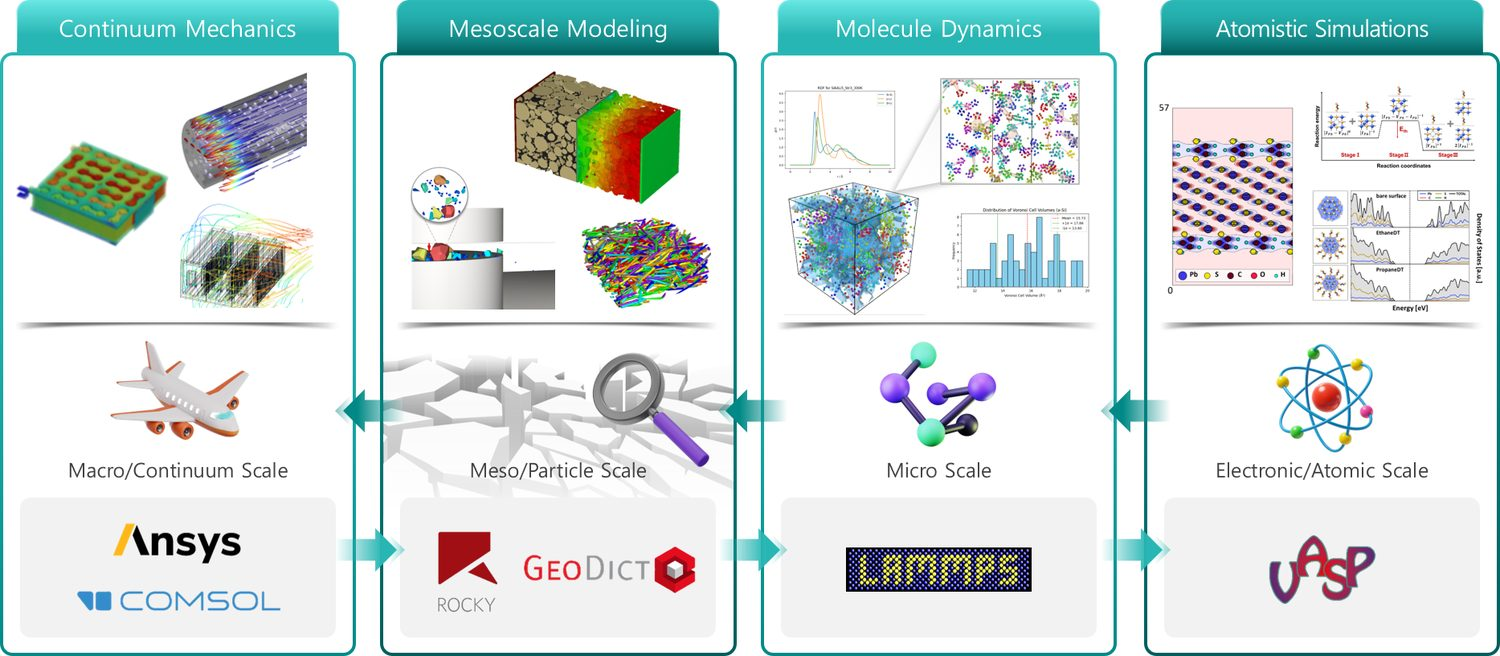
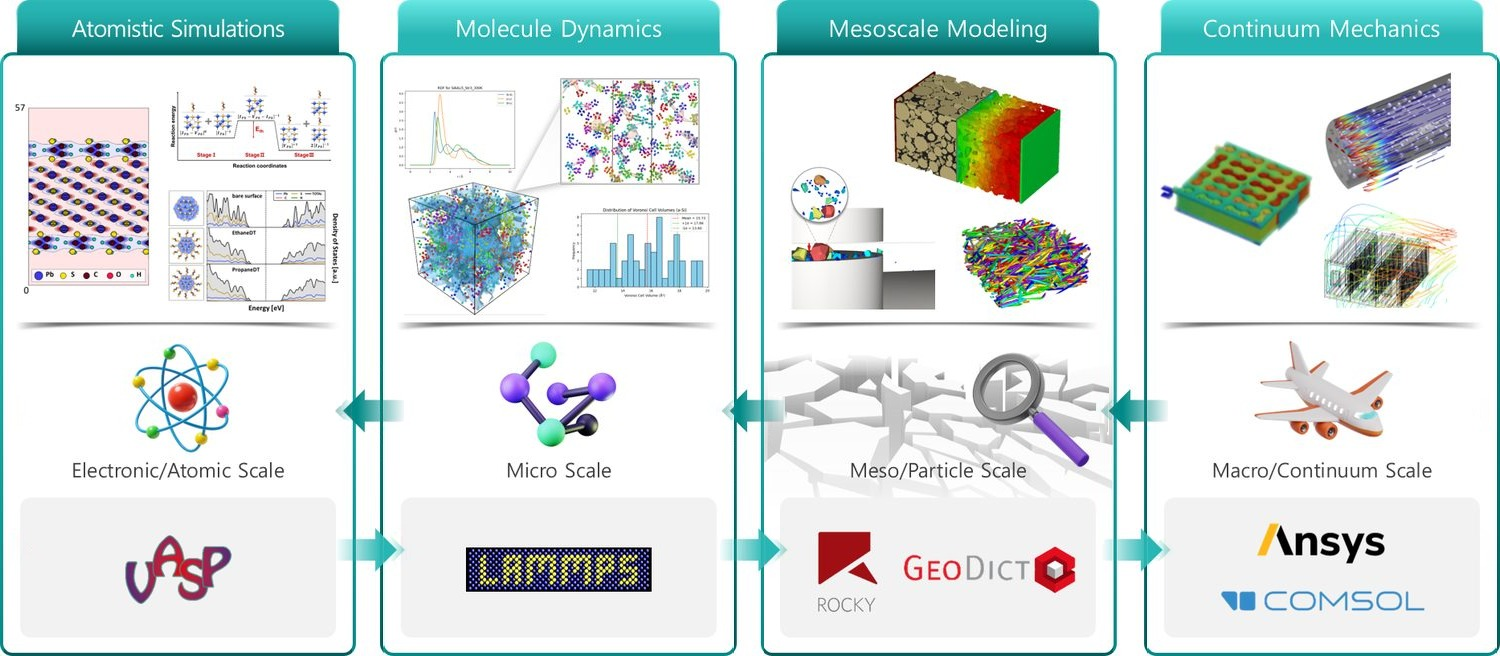
Research scope 그림 패널 순서 반전 (Atomistic → MD → Mesoscale → Continuum)
Claude-Session: https://claude.ai/code/session_01MRPiQirw4n63LMQu1S1Vxf

diff --git a/index.html b/index.html
@@ -394,7 +394,7 @@
   © 2026 MatSOLVE, Korea Institute of Ceramic Engineering &amp; Technology<br>
 </footer>
 
-<script id="imgdata" type="application/json">{"logo": "assets/img/logo.png", "concept": "assets/img/concept.jpg", "scope": "assets/img/scope.jpg", "pillars": "assets/img/pillars.jpg", "qr": "assets/img/qr.jpg", "r1": "assets/img/r1.jpg", "r2": "assets/img/r2.jpg", "r3": "assets/img/r3.jpg", "r4": "assets/img/r4.jpg", "r5": "assets/img/r5.jpg", "pi": "assets/img/pi.jpg", "m_bincy": "assets/img/m_bincy.jpg", "m_ganji": "assets/img/m_ganji.jpg", "m_prabha": "assets/img/m_prabha.jpg", "m_ksw": "assets/img/m_ksw.jpg", "m_kjb": "assets/img/m_kjb.jpg", "m_khn": "assets/img/m_khn.jpg", "m_cde": "assets/img/m_cde.jpg", "m_smt": "assets/img/m_smt.jpg", "m_shj": "assets/img/m_shj.jpg", "m_ldg": "assets/img/m_ldg.jpg", "m_lsh": "assets/img/m_lsh.jpg", "m_jsw": "assets/img/m_jsw.jpg", "sw_ansys": "assets/img/sw_ansys.png", "sw_fluent": "assets/img/sw_fluent.png", "sw_comsol": "assets/img/sw_comsol.png", "sw_digimat": "assets/img/sw_digimat.png", "sw_geodict": "assets/img/sw_geodict.png", "sw_hepigans": "assets/img/sw_hepigans.png", "sw_msstudio": "assets/img/sw_msstudio.png", "sw_piano": "assets/img/sw_piano.png", "sw_vasp": "assets/img/sw_vasp.png", "n_grad": "assets/img/n_grad.jpg", "n_cover": "assets/img/n_cover.jpg", "n_plat": "assets/img/n_plat.jpg?v=20260905", "n_award": "assets/img/n_award.jpg", "n_geo": "assets/img/n_geo.jpg", "n_qd": "assets/img/n_qd.jpg", "n_marine": "assets/img/n_marine.jpg", "n_hydro": "assets/img/pub/20.jpg", "n_amds": "assets/img/n_amds.jpg", "n_mico": "assets/img/n_mico.jpg", "n_halide": "assets/img/n_halide.jpg?v=20260905", "n_tribo": "assets/img/pub/13.jpg", "m_kgw": "assets/img/m_kgw.jpg", "m_gf": "assets/img/m_gf.jpg", "m_uk": "assets/img/m_uk.jpg"}</script>
+<script id="imgdata" type="application/json">{"logo": "assets/img/logo.png", "concept": "assets/img/concept.jpg", "scope": "assets/img/scope.jpg?v=20261005", "pillars": "assets/img/pillars.jpg", "qr": "assets/img/qr.jpg", "r1": "assets/img/r1.jpg", "r2": "assets/img/r2.jpg", "r3": "assets/img/r3.jpg", "r4": "assets/img/r4.jpg", "r5": "assets/img/r5.jpg", "pi": "assets/img/pi.jpg", "m_bincy": "assets/img/m_bincy.jpg", "m_ganji": "assets/img/m_ganji.jpg", "m_prabha": "assets/img/m_prabha.jpg", "m_ksw": "assets/img/m_ksw.jpg", "m_kjb": "assets/img/m_kjb.jpg", "m_khn": "assets/img/m_khn.jpg", "m_cde": "assets/img/m_cde.jpg", "m_smt": "assets/img/m_smt.jpg", "m_shj": "assets/img/m_shj.jpg", "m_ldg": "assets/img/m_ldg.jpg", "m_lsh": "assets/img/m_lsh.jpg", "m_jsw": "assets/img/m_jsw.jpg", "sw_ansys": "assets/img/sw_ansys.png", "sw_fluent": "assets/img/sw_fluent.png", "sw_comsol": "assets/img/sw_comsol.png", "sw_digimat": "assets/img/sw_digimat.png", "sw_geodict": "assets/img/sw_geodict.png", "sw_hepigans": "assets/img/sw_hepigans.png", "sw_msstudio": "assets/img/sw_msstudio.png", "sw_piano": "assets/img/sw_piano.png", "sw_vasp": "assets/img/sw_vasp.png", "n_grad": "assets/img/n_grad.jpg", "n_cover": "assets/img/n_cover.jpg", "n_plat": "assets/img/n_plat.jpg?v=20260905", "n_award": "assets/img/n_award.jpg", "n_geo": "assets/img/n_geo.jpg", "n_qd": "assets/img/n_qd.jpg", "n_marine": "assets/img/n_marine.jpg", "n_hydro": "assets/img/pub/20.jpg", "n_amds": "assets/img/n_amds.jpg", "n_mico": "assets/img/n_mico.jpg", "n_halide": "assets/img/n_halide.jpg?v=20260905", "n_tribo": "assets/img/pub/13.jpg", "m_kgw": "assets/img/m_kgw.jpg", "m_gf": "assets/img/m_gf.jpg", "m_uk": "assets/img/m_uk.jpg"}</script>
 <script id="galdata" type="application/json">[{"id": "e2609b", "date": "2026.09.30–10.02", "title": "Korean Ceramic Society", "note": "추계학술대회", "cover": "assets/img/gallery/e2609b-cover.jpg", "shots": ["assets/img/gallery/e2609b-01.jpg", "assets/img/gallery/e2609b-02.jpg"]}, {"id": "e2609", "date": "2026.09.08", "title": "Welcome, Daeun!", "note": "최다은 연구원 환영회", "cover": "assets/img/gallery/e2609-cover.jpg", "shots": ["assets/img/gallery/e2609-01.jpg"]}, {"id": "e2606", "date": "2026.06.21–24", "title": "CIMTEC 2026 · 10th Forum on New Materials", "note": "Perugia, Italy", "cover": "assets/img/gallery/e2606-cover.jpg", "shots": ["assets/img/gallery/e2606-01.jpg", "assets/img/gallery/e2606-02.jpg", "assets/img/gallery/e2606-04.jpg", "assets/img/gallery/e2606-03.jpg"]}, {"id": "e2605b", "date": "2026.05.15", "title": "Teachers' Day", "note": "스승의 날", "cover": "assets/img/gallery/e2605b-cover.jpg", "shots": ["assets/img/gallery/e2605b-02.jpg"]}, {"id": "e2605a", "date": "2026.05.08", "title": "Homecoming", "note": "졸업생 방문", "cover": "assets/img/gallery/e2605a-cover.jpg", "shots": ["assets/img/gallery/e2605a-14.jpg"]}, {"id": "e2604", "date": "2026.04.08–10", "title": "Korean Ceramic Society", "note": "춘계학술대회", "cover": "assets/img/gallery/e2604-cover.jpg", "shots": ["assets/img/gallery/e2604-08.jpg", "assets/img/gallery/e2604-01.jpg", "assets/img/gallery/e2604-06.jpg"]}, {"id": "e2601", "date": "2026.01.09", "title": "Birthday", "note": "", "cover": "assets/img/gallery/e2601-cover.jpg", "shots": ["assets/img/gallery/e2601-01.jpg"]}, {"id": "e2511", "date": "2025.11.19–22", "title": "39th Korea–Japan Seminar on Ceramics", "note": "Oriental Hotel, Jeju", "cover": "assets/img/gallery/e2511-cover.jpg", "shots": ["assets/img/gallery/e2511-01.jpg", "assets/img/gallery/e2511-02.jpg", "assets/img/gallery/e2511-04.jpg"]}, {"id": "e2506", "date": "2025.06.02", "title": "Congrats, Donggeon!", "note": "이동건 취업 축하 파티", "cover": "assets/img/gallery/e2506-cover.jpg", "shots": ["assets/img/gallery/e2506-01.jpg"]}, {"id": "e2505", "date": "2025.05.15", "title": "Teachers' Day", "note": "스승의 날", "cover": "assets/img/gallery/e2505-cover.jpg", "shots": ["assets/img/gallery/e2505-03.jpg", "assets/img/gallery/e2505-05.jpg"]}, {"id": "e2503", "date": "2025.03.13", "title": "Group meeting", "note": "", "cover": "assets/img/gallery/e2503-cover.jpg", "shots": ["assets/img/gallery/e2503-01.jpg"]}, {"id": "e2502b", "date": "2025.02.27", "title": "Welcome Dr. Karan", "note": "환영회", "cover": "assets/img/gallery/e2502b-cover.jpg", "shots": ["assets/img/gallery/e2502b-01.jpg", "assets/img/gallery/e2502b-02.jpg"]}, {"id": "e2502a", "date": "2025.02.05–07", "title": "Nature Conference: Materials for AI", "note": "KAIST", "cover": "assets/img/gallery/e2502a-cover.jpg", "shots": ["assets/img/gallery/e2502a-01.jpg"]}, {"id": "e2501", "date": "2025.01.10", "title": "Birthday", "note": "", "cover": "assets/img/gallery/e2501-cover.jpg", "shots": ["assets/img/gallery/e2501-01.jpg"]}, {"id": "e2410", "date": "2024.10.16–18", "title": "Korean Ceramic Society", "note": "추계학술대회", "cover": "assets/img/gallery/e2410-cover.jpg", "shots": ["assets/img/gallery/e2410-04.jpg", "assets/img/gallery/e2410-01.jpg", "assets/img/gallery/e2410-02.jpg"]}, {"id": "e2409", "date": "2024.09.22–27", "title": "Multiscale Materials Modeling (MMM11)", "note": "", "cover": "assets/img/gallery/e2409-cover.jpg", "shots": ["assets/img/gallery/e2409-01.jpg", "assets/img/gallery/e2409-02.jpg", "assets/img/gallery/e2409-09.jpg", "assets/img/gallery/e2409-03.jpg", "assets/img/gallery/e2409-04.jpg", "assets/img/gallery/e2409-05.jpg", "assets/img/gallery/e2409-06.jpg"]}, {"id": "e2403", "date": "2024.03.15–16", "title": "Membership Training", "note": "Geoje", "cover": "assets/img/gallery/e2403-cover.jpg", "shots": ["assets/img/gallery/emt-01.jpg"]}, {"id": "e2305", "date": "2023.05.19–20", "title": "Membership Training", "note": "Changwon", "cover": "assets/img/gallery/e2305-cover.jpg", "shots": ["assets/img/gallery/emt-06.jpg", "assets/img/gallery/emt-02.jpg"]}]</script>
 <script id="pubdata" type="application/json">[{"id": 61, "date": "2026-08-25", "year": 2026, "title": "Effect of fumed silica content on the microstructural evolution and mechanical properties of metakaolin-based basalt fiber-reinforced geopolymer matrix composites", "venue": "Advanced Composite Materials", "jif": null, "q": null, "cites": 0, "role": "co-corresponding", "pos": [5, 5], "doi": "https://doi.org/10.1080/09243046.2026.2721819", "authors": [{"n": "Sanghun Lee", "lab": true, "m": "†"}, {"n": "Shinwoo Kang", "lab": true, "m": "†"}, {"n": "Hyung Mi Lim", "lab": false, "m": ""}, {"n": "Seog-Young Yoon", "lab": false, "m": "*"}, {"n": "Hyunseok Ko", "lab": true, "m": "*"}], "fig": 1}, {"id": 60, "date": "2026-07-13", "year": 2026, "title": "Composition and Processing Descriptors Govern Electroceramic Property Prediction: A Multi-Modal Interpretable Framework for BaTiO3-Based Ceramics", "venue": "Journal of Materiomics", "jif": 10.6, "q": "Q1", "cites": 0, "role": "co-corresponding", "pos": [6, 7], "doi": "https://doi.org/10.1016/j.jmat.2026.101282", "authors": [{"n": "Saman khalid", "lab": false, "m": "†"}, {"n": "Muhammad Faseeh", "lab": false, "m": "†"}, {"n": "Murad Ali Khan", "lab": false, "m": ""}, {"n": "Hyejeong Song", "lab": true, "m": ""}, {"n": "Syed Shehryar Ali Naqvi", "lab": false, "m": ""}, {"n": "Hyunseok Ko", "lab": true, "m": "*"}, {"n": "Do-Hyeun Kim", "lab": false, "m": "*"}]}, {"id": 59, "date": "2026-06-16", "year": 2026, "title": "Multi-model machine learning framework for predicting material properties of BaTiO3-based ferroelectric ceramics", "venue": "Materials & Design", "jif": 8.2, "q": "Q1", "cites": 0, "role": "co-corresponding", "pos": [6, 7], "doi": "https://doi.org/10.1016/j.matdes.2026.116418", "authors": [{"n": "Saman Khalid", "lab": false, "m": "†"}, {"n": "Muhammad Faseeh", "lab": false, "m": ""}, {"n": "Hyejeong Song", "lab": true, "m": ""}, {"n": "Murad Ali Khan", "lab": false, "m": ""}, {"n": "Syed Shehryar Ali Naqvi", "lab": false, "m": ""}, {"n": "Hyunseok Ko", "lab": true, "m": "*"}, {"n": "Do-Hyeon Kim", "lab": false, "m": "*"}], "fig": 1}, {"id": 58, "date": "2026-06-03", "year": 2026, "title": "Reinforced surface reactivity via incorporation of metal catalyst onto perovskite oxide for CO2 reduction", "venue": "Materials Today Energy", "jif": 8.1, "q": "Q1", "cites": 0, "role": "co-corresponding", "pos": [9, 10], "doi": "https://doi.org/10.1016/j.mtener.2026.102327", "authors": [{"n": "Sang Won Lee", "lab": false, "m": "†"}, {"n": "Sampath Prabhakaran", "lab": true, "m": "†"}, {"n": "Tae Heon Nam", "lab": false, "m": ""}, {"n": "Geunwoo Kim", "lab": true, "m": ""}, {"n": "Jae Hoon Lim", "lab": false, "m": ""}, {"n": "Hyejeong Song", "lab": true, "m": ""}, {"n": "Sungtae Park", "lab": false, "m": ""}, {"n": "Jong Hyeok Park", "lab": false, "m": "*"}, {"n": "Hyunseok Ko", "lab": true, "m": "*"}, {"n": "Tae Ho Shin", "lab": false, "m": "*"}], "fig": 1}, {"id": 57, "date": "2026-06-01", "year": 2026, "title": "High Polarity Doping of CoFe Layered Hydroxides: Bifunctional and Corrosion-Resistant Anion Exchange Membrane Seawater Electrolyzers", "venue": "Nano-Micro Letters", "jif": 38.5, "q": "Q1", "cites": 2, "role": "co-author", "pos": [6, 11], "doi": "https://doi.org/10.1007/s40820-026-02230-8", "authors": [{"n": "Anandhan Ayyappan Saj", "lab": false, "m": "†"}, {"n": "Sampath Prabhakaran", "lab": true, "m": "†"}, {"n": "Moshin Rasool", "lab": false, "m": ""}, {"n": "Kousik Bhunia", "lab": false, "m": ""}, {"n": "Dongho Lee", "lab": false, "m": ""}, {"n": "Hyunseok Ko", "lab": true, "m": ""}, {"n": "Tukaram D. Dongale", "lab": false, "m": ""}, {"n": "Muthukumar Perumalsamy", "lab": false, "m": ""}, {"n": "Arul Saravanan Raaju Sundhar", "lab": false, "m": ""}, {"n": "Do Hwan Kim", "lab": false, "m": "*"}, {"n": "Sang Jae Kim", "lab": false, "m": "*"}], "fig": 1}, {"id": 56, "date": "2026-05-01", "year": 2026, "title": "Low temperature/low-pressure fabrication of oxide/oxide ceramic matrix composites with excellent mechanical properties and stealth capabilities", "venue": "Advanced Composites and Hybrid Materials", "jif": 15.5, "q": "Q1", "cites": 0, "role": "co-author", "pos": [3, 7], "doi": "https://doi.org/10.1007/s42114-026-01816-5", "authors": [{"n": "Shanigaram Mallesh", "lab": false, "m": "†"}, {"n": "Dong-Jun Hong", "lab": false, "m": ""}, {"n": "Hyunseok Ko", "lab": true, "m": ""}, {"n": "Sanghun Lee", "lab": true, "m": ""}, {"n": "Chae-Hwan Lim", "lab": false, "m": ""}, {"n": "Won-Ho Choi", "lab": false, "m": ""}, {"n": "Young-Woo Nam", "lab": false, "m": "*"}], "fig": 1}, {"id": 55, "date": "2026-04-06", "year": 2026, "title": "Mechanistic insights into vacancy-driven activation and dissociation of hydrogen peroxide on Ti3C2O2 MXene in water", "venue": "Nanoscale Advances", "jif": 6.3, "q": "Q2", "cites": 0, "role": "corresponding", "pos": [2, 2], "doi": "https://doi.org/10.1039/d5na00962f", "authors": [{"n": "Masoud Darvish Ganji", "lab": true, "m": "†"}, {"n": "Hyunseok Ko", "lab": true, "m": "*"}], "fig": 1, "sel": 1}, {"id": 54, "date": "2026-04-06", "year": 2026, "title": "Bridging the theoretical gap between electronic structure and dynamic stability: An integrated computational framework for ZnO sheet-based chemical warfare agent sensors", "venue": "Surfaces and Interfaces", "jif": 6.0, "q": "Q2", "cites": 5, "role": "co-corresponding", "pos": [3, 3], "doi": "https://doi.org/10.1016/j.surfin.2026.109196", "authors": [{"n": "Masoud Darvish Ganji", "lab": true, "m": "†"}, {"n": "Mahyar Rezvani", "lab": false, "m": ""}, {"n": "Hyunseok Ko", "lab": true, "m": "*"}], "fig": 1}, {"id": 53, "date": "2026-03-31", "year": 2026, "title": "Numerical analysis and optimization of horizontal MOCVD reactor design parameters for uniform GaN thin films", "venue": "Journal of the Korean Ceramic Society", "jif": 4.4, "q": "Q1", "cites": 0, "role": "co-corresponding", "pos": [3, 3], "doi": "https://doi.org/10.1007/s43207-026-00602-9", "authors": [{"n": "Haneul Kim", "lab": true, "m": "†"}, {"n": "Roy Byung Kyu Chung", "lab": false, "m": ""}, {"n": "Hyunseok Ko", "lab": true, "m": "*"}], "fig": 1}, {"id": 52, "date": "2026-03-24", "year": 2026, "title": "Processing-structure-property prediction in polycrystalline BaTiO3 ceramics using experimental and computational data fusion", "venue": "Materials Today Communications", "jif": 4.9, "q": "Q2", "cites": 1, "role": "co-corresponding", "pos": [6, 7], "doi": "https://doi.org/10.1016/j.mtcomm.2026.115004", "authors": [{"n": "Muhammad Faseeh", "lab": false, "m": "†"}, {"n": "Hyejeong Song", "lab": true, "m": ""}, {"n": "Murad Ali Khan", "lab": false, "m": ""}, {"n": "Syed Shehryar Ali Naqvi", "lab": false, "m": ""}, {"n": "Saman Khalid", "lab": false, "m": ""}, {"n": "Hyunseok Ko", "lab": true, "m": "*"}, {"n": "Do-Hyeun Kim", "lab": false, "m": "*"}], "fig": 1}, {"id": 51, "date": "2026-02-24", "year": 2026, "title": "Hierarchically structured Cu-Fe-S nanomaterials as dual-functional catalysts for enhanced hydrogen evolution and photocatalytic dye degradation", "venue": "Journal of Alloys and Compounds", "jif": 6.7, "q": "Q2", "cites": 0, "role": "co-corresponding", "pos": [7, 8], "doi": "https://doi.org/10.1016/j.jallcom.2026.187031", "authors": [{"n": "C.K. Sushma", "lab": false, "m": "†"}, {"n": "Hyeon Woo Kim", "lab": false, "m": ""}, {"n": "Maheshkumar V", "lab": false, "m": ""}, {"n": "Anju Sebastian", "lab": false, "m": ""}, {"n": "Masoud Darvish Ganji", "lab": true, "m": ""}, {"n": "Sung Beom Cho", "lab": false, "m": ""}, {"n": "Hyunseok Ko", "lab": true, "m": "*"}, {"n": "Vidhya Bhojan", "lab": false, "m": "*"}], "fig": 1}, {"id": 50, "date": "2026-02-01", "year": 2026, "title": "First-Principles Models of Triboelectrification", "venue": "Small Methods", "jif": 8.7, "q": "Q1", "cites": 0, "role": "co-author", "pos": [3, 6], "doi": "https://doi.org/10.1002/smtd.202501782", "authors": [{"n": "Giulio Fatti", "lab": true, "m": "†"}, {"n": "John Cavin", "lab": false, "m": ""}, {"n": "Hyunseok Ko", "lab": true, "m": ""}, {"n": "Rohan Mishra", "lab": false, "m": ""}, {"n": "Daniele Dini", "lab": false, "m": ""}, {"n": "Sung Beom Cho", "lab": false, "m": ""}], "fig": 1}, {"id": 49, "date": "2025-12-11", "year": 2025, "title": "Toward efficient dielectric material discovery: a comparative evaluation of Transformer and AutoML-based inverse learning", "venue": "Journal of Asian Ceramic Societies", "jif": 1.8, "q": "Q3", "cites": 1, "role": "co-corresponding", "pos": [5, 6], "doi": "https://doi.org/10.1080/21870764.2025.2570561", "authors": [{"n": "Murad Ali Khan", "lab": false, "m": "†"}, {"n": "Hyejeong Song", "lab": true, "m": ""}, {"n": "Syed Shehryar Ali Naqvi", "lab": false, "m": ""}, {"n": "Muhammad Faseeh", "lab": false, "m": ""}, {"n": "Hyunseok Ko", "lab": true, "m": "*"}, {"n": "Do-Hyeun Kim", "lab": false, "m": "*"}], "fig": 1}, {"id": 48, "date": "2025-11-15", "year": 2025, "title": "Boosting the efficiency and stability of cerium-doped trimetallic phosphides for overall water splitting", "venue": "Chemical Engineering Journal", "jif": 12.5, "q": "Q1", "cites": 5, "role": "co-author", "pos": [5, 8], "doi": "https://doi.org/10.1016/j.cej.2025.169404", "authors": [{"n": "Mai Mai", "lab": false, "m": "†"}, {"n": "Sampath Prabhakaran", "lab": true, "m": ""}, {"n": "Huyen Thi Dao", "lab": false, "m": ""}, {"n": "Lan Nguyen", "lab": false, "m": ""}, {"n": "Hyunseok Ko", "lab": true, "m": ""}, {"n": "Young Sun Mok", "lab": false, "m": ""}, {"n": "Van Hien Hoa", "lab": false, "m": "*"}, {"n": "Do Hwan Kim", "lab": false, "m": "*"}], "fig": 1}, {"id": 47, "date": "2025-10-30", "year": 2025, "title": "Engineering multifunctionality in gallium oxide: unveiling novel structural, electronic, and opto-mechanical attributes of gadolinium-doped β-Ga2O3 through advanced first-principles design", "venue": "RSC Advances", "jif": 6.1, "q": "Q2", "cites": 4, "role": "corresponding", "pos": [2, 2], "doi": "https://doi.org/10.1039/d5ra05763a", "authors": [{"n": "Masoud Darvish Ganji", "lab": true, "m": "†"}, {"n": "Hyunseok Ko", "lab": true, "m": "*"}], "fig": 1}, {"id": 46, "date": "2025-09-09", "year": 2025, "title": "Rational material design of chemically inert oxide anode coating layers for lithium metal and all-solid-state batteries", "venue": "Applied Surface Science Advances", "jif": 10.0, "q": "Q1", "cites": 0, "role": "co-author", "pos": [6, 10], "doi": "https://doi.org/10.1016/j.apsadv.2025.100842", "authors": [{"n": "Dong Won Jeon", "lab": false, "m": "†"}, {"n": "Wootaek Choi", "lab": false, "m": ""}, {"n": "Jun Hyuk Kang", "lab": false, "m": ""}, {"n": "Hyeon Woo Kim", "lab": false, "m": ""}, {"n": "Min Sung Kang", "lab": false, "m": ""}, {"n": "Woongchan Kim", "lab": false, "m": ""}, {"n": "Han Uk Lee", "lab": false, "m": ""}, {"n": "Hyunseok Ko", "lab": true, "m": ""}, {"n": "Patrick Joohyun Kim", "lab": false, "m": "*"}, {"n": "Sung Beom Cho", "lab": false, "m": "*"}], "fig": 1}, {"id": 45, "date": "2025-06-30", "year": 2025, "title": "초저궤도 우주환경에서 자기 강화 원자산소 저항 산화층이 형성된 산화물/산화물 세라믹 복합재 구조의 손상 거동 평가", "venue": "복합재료 (Composites Research), 한국복합재료학회", "jif": null, "q": null, "cites": 0, "role": "co-author", "pos": [6, 8], "doi": "https://doi.org/10.7234/composres.2025.38.3.333", "authors": [{"n": "Chae-Hwan Lim", "lab": false, "m": "†"}, {"n": "Dong-Jun Hong", "lab": false, "m": ""}, {"n": "Hanna Jang", "lab": false, "m": ""}, {"n": "Seung-Hyeon Kang", "lab": false, "m": ""}, {"n": "Sang-Hoon Lee", "lab": true, "m": ""}, {"n": "Hyunseok Ko", "lab": true, "m": ""}, {"n": "Won-Ho Choi", "lab": false, "m": ""}, {"n": "Young-Woo Nam", "lab": false, "m": ""}], "fig": 1}, {"id": 44, "date": "2025-04-30", "year": 2025, "title": "First-principles investigation of Mo-doped β-Ga2O3: Prospects for visible light technologies and spintronics", "venue": "Physica B: Condensed Matter", "jif": 3.2, "q": "Q2", "cites": 8, "role": "corresponding", "pos": [5, 5], "doi": "https://doi.org/10.1016/j.physb.2025.417334", "authors": [{"n": "Masoud Darvish Ganji", "lab": true, "m": "†"}, {"n": "Hyejeong Song", "lab": true, "m": ""}, {"n": "Ji-Hyeon Park", "lab": false, "m": ""}, {"n": "Dae-Woo Jeon", "lab": false, "m": ""}, {"n": "Hyunseok Ko", "lab": true, "m": "*"}], "fig": 1}, {"id": 43, "date": "2025-01-27", "year": 2025, "title": "Accentuating the ambient curing behavior of geopolymers: metamodel-guided optimization for fast-curing geopolymers with high flexural strength", "venue": "Digital Discovery", "jif": 7.1, "q": "Q1", "cites": 4, "role": "corresponding", "pos": [5, 6], "doi": "https://doi.org/10.1039/d4dd00217b", "authors": [{"n": "Kyungwon Kim", "lab": true, "m": "†"}, {"n": "Hyejeong Song", "lab": true, "m": "†"}, {"n": "Sanghun Lee", "lab": true, "m": ""}, {"n": "Hyung-Kyu Cho", "lab": false, "m": ""}, {"n": "Hyung-Mi Lim", "lab": false, "m": ""}, {"n": "Hyunseok Ko", "lab": true, "m": "*"}], "fig": 1}, {"id": 42, "date": "2025-01-14", "year": 2025, "title": "First-Principle Insights into Positive Triboelectrification of Polyoxymethylene Through Homolytic Bond Rupture", "venue": "Nanoenergy Advances", "jif": 4.2, "q": "Q3", "cites": 2, "role": "co-author", "pos": [2, 3], "doi": "https://doi.org/10.3390/nanoenergyadv5010001", "authors": [{"n": "Giulio Fatti", "lab": true, "m": "†*"}, {"n": "Hyunseok Ko", "lab": true, "m": ""}, {"n": "Sung Beom Cho", "lab": false, "m": ""}], "fig": 1}, {"id": 41, "date": "2024-12-18", "year": 2024, "title": "Ultrahigh-gain colloidal quantum dot infrared avalanche photodetectors", "venue": "Nature Nanotechnology", "jif": 37.5, "q": "Q1", "cites": 47, "role": "first", "pos": [3, 9], "doi": "https://doi.org/10.1038/s41565-024-01831-x", "authors": [{"n": "Byeongsu Kim", "lab": false, "m": "†"}, {"n": "Sang Yeon Lee", "lab": false, "m": "†"}, {"n": "Hyunseok Ko", "lab": true, "m": "†"}, {"n": "Jihyung Lee", "lab": false, "m": ""}, {"n": "Hyejeong Song", "lab": true, "m": ""}, {"n": "Sungjun Cho", "lab": false, "m": ""}, {"n": "Min-Ho Lee", "lab": false, "m": ""}, {"n": "Jung-Yong Lee", "lab": false, "m": ""}], "fig": 1, "sel": 1}, {"id": 40, "date": "2024-12-04", "year": 2024, "title": "Unveiling the Aluminum Doping Effects of In-Situ Transmogrified Dual-LDH Heterostructure and Its Fermi-Level Alignment to Water Splitting Potentials", "venue": "Advanced Energy Materials", "jif": 25.5, "q": "Q1", "cites": 39, "role": "co-author", "pos": [10, 11], "doi": "https://doi.org/10.1002/aenm.202403889", "authors": [{"n": "Nandapriya Manivelan", "lab": false, "m": "†"}, {"n": "Junji Piao", "lab": false, "m": ""}, {"n": "Jaekook Kim", "lab": false, "m": ""}, {"n": "Seunghwa Lee", "lab": false, "m": ""}, {"n": "Youngji Kim", "lab": false, "m": ""}, {"n": "Vaiyapuri Soundharrajan", "lab": false, "m": ""}, {"n": "Min-Kyu Son", "lab": false, "m": ""}, {"n": "Amir Humayun", "lab": false, "m": ""}, {"n": "Masoud Darvish Ganji", "lab": true, "m": ""}, {"n": "Hyunseok Ko", "lab": true, "m": ""}, {"n": "Kandasamy Prabakar", "lab": false, "m": ""}], "fig": 1}, {"id": 39, "date": "2024-10-17", "year": 2024, "title": "Machine learning-enhanced design of lead-free halide perovskite materials using density functional theory", "venue": "Current Applied Physics", "jif": 2.8, "q": "Q3", "cites": 7, "role": "co-corresponding", "pos": null, "doi": "https://doi.org/10.1016/j.cap.2024.10.012", "authors": [{"n": "Upendra Kumar", "lab": true, "m": "†"}, {"n": "Hyeon Woo Kim", "lab": false, "m": "†"}, {"n": "Gyanendra Kumar Maurya", "lab": false, "m": ""}, {"n": "Bincy Babu Raj", "lab": true, "m": ""}, {"n": "Sobhit Singh", "lab": false, "m": ""}, {"n": "Ajay Kumar Kushwaha", "lab": false, "m": ""}, {"n": "Sung Beom Cho", "lab": false, "m": "*"}, {"n": "Hyunseok Ko", "lab": true, "m": "*"}], "fig": 1}, {"id": 38, "date": "2024-09-30", "year": 2024, "title": "Suppressing Hole Accumulation Through Sub-Nanometer Dipole Interfaces in Hybrid Perovskite/Organic Solar Cells for Boosting Near-Infrared Photon Harvesting", "venue": "Advanced Materials", "jif": 29.1, "q": "Q1", "cites": 22, "role": "co-author", "pos": [9, 13], "doi": "https://doi.org/10.1002/adma.202411015", "authors": [{"n": "Min-Ho Lee", "lab": false, "m": "†"}, {"n": "Min Seok Kim", "lab": false, "m": ""}, {"n": "Yu Jin Lee", "lab": false, "m": ""}, {"n": "Byeongsu Kim", "lab": false, "m": ""}, {"n": "Ju-Hyeon Kim", "lab": false, "m": ""}, {"n": "Chungryeol Lee", "lab": false, "m": ""}, {"n": "Jihyung Lee", "lab": false, "m": ""}, {"n": "Dong-Jun Kim", "lab": false, "m": ""}, {"n": "Hyunseok Ko", "lab": true, "m": ""}, {"n": "Masoud Darvish Ganji", "lab": true, "m": ""}, {"n": "Kwanghee Lee", "lab": false, "m": ""}, {"n": "Woojae Kim", "lab": false, "m": ""}, {"n": "Jung-Yong Lee", "lab": false, "m": ""}], "fig": 1}, {"id": 37, "date": "2024-08-29", "year": 2024, "title": "Overcoming the limitations of atomic-scale simulations on semiconductor catalysis with changing Fermi level and surface treatment", "venue": "Journal of Materials Chemistry A", "jif": 9.2, "q": "Q1", "cites": 4, "role": "co-corresponding", "pos": [12, 14], "doi": "https://doi.org/10.1039/d4ta03595j", "authors": [{"n": "Seulgi ji", "lab": false, "m": "†"}, {"n": "Dong Won Jeon", "lab": false, "m": ""}, {"n": "Junghyun Choi", "lab": false, "m": ""}, {"n": "Haneol Cho", "lab": false, "m": ""}, {"n": "Bo-In Park", "lab": false, "m": ""}, {"n": "Ilpyo Roh", "lab": false, "m": ""}, {"n": "Hyungil Choi", "lab": false, "m": ""}, {"n": "Chansoo Kim", "lab": false, "m": ""}, {"n": "Jung Kyu Kim", "lab": false, "m": ""}, {"n": "Uk sim", "lab": false, "m": ""}, {"n": "Danlei Li", "lab": false, "m": ""}, {"n": "Hyunseok Ko", "lab": true, "m": "*"}, {"n": "Sung Beom Cho", "lab": false, "m": "*"}, {"n": "Heechae Choi", "lab": false, "m": "*"}], "fig": 1, "sel": 1}, {"id": 36, "date": "2024-07-29", "year": 2024, "title": "Multifaceted investigation into the impact of Ga substitution for Al in V2MnAl inverse Heusler alloys", "venue": "Physica B: Condensed Matter", "jif": 3.2, "q": "Q2", "cites": 3, "role": "co-corresponding", "pos": [4, 5], "doi": "https://doi.org/10.1016/j.physb.2024.416345", "authors": [{"n": "Shashank Shekhar Mishra", "lab": false, "m": "†"}, {"n": "Upendra Kumar", "lab": true, "m": "†"}, {"n": "Bincy Babu Raj", "lab": true, "m": ""}, {"n": "Hyunseok Ko", "lab": true, "m": "*"}, {"n": "Thakur Prasad Yadav", "lab": false, "m": "*"}], "fig": 1}, {"id": 35, "date": "2024-04-29", "year": 2024, "title": "Unravelling performance of honeycomb structures as drug delivery systems for the isoniazid drug using DFT-D3 correction dispersion and molecular dynamic simulations", "venue": "Physical Chemistry Chemical Physics", "jif": 3.0, "q": "Q3", "cites": 50, "role": "co-author", "pos": [2, 8], "doi": "https://doi.org/10.1039/d3cp05457h", "authors": [{"n": "Masoud Darvish Ganji", "lab": true, "m": "†"}, {"n": "Hyunseok Ko", "lab": true, "m": ""}, {"n": "Saeed Jamehbozorgi", "lab": false, "m": ""}, {"n": "Mahmood Tajbakhsh", "lab": false, "m": ""}, {"n": "Sepideh Tanreh", "lab": false, "m": ""}, {"n": "Rosa Pahlavan Nejad", "lab": false, "m": ""}, {"n": "Mahboubeh Sepahvand", "lab": false, "m": ""}, {"n": "Mahyar Rezvani", "lab": false, "m": "*"}], "fig": 1}, {"id": 34, "date": "2024-04-16", "year": 2024, "title": "Morphological diversity in directionally-solidified microstructures with varying anisotropy of solid-liquid interfacial free energy", "venue": "Journal of Materials Research and Technology", "jif": 7.3, "q": "Q1", "cites": 6, "role": "co-corresponding", "pos": [4, 5], "doi": "https://doi.org/10.1016/j.jmrt.2024.04.126", "authors": [{"n": "Geunwoo Kim", "lab": true, "m": "†"}, {"n": "Tomohiro Takaki", "lab": false, "m": ""}, {"n": "Yasushi Shibuta", "lab": false, "m": ""}, {"n": "Hyunseok Ko", "lab": true, "m": "*"}, {"n": "Munekazu Ohno", "lab": false, "m": "*"}], "fig": 1}, {"id": 33, "date": "2024-01-11", "year": 2024, "title": "Designing Pr-based advanced photoluminescent materials using machine learning and density functional theory", "venue": "Journal of Materials Science", "jif": 4.4, "q": "Q2", "cites": 5, "role": "corresponding", "pos": [5, 5], "doi": "https://doi.org/10.1007/s10853-023-09232-6", "authors": [{"n": "Upendra Kumar", "lab": true, "m": "†"}, {"n": "Hyeon Woo Kim", "lab": false, "m": ""}, {"n": "Sobhit Singh", "lab": false, "m": ""}, {"n": "Sung Beom Cho", "lab": false, "m": "*"}, {"n": "Hyunseok Ko", "lab": true, "m": "*"}], "fig": 1}, {"id": 32, "date": "2024-01-09", "year": 2024, "title": "Sequential doping strategy in rutile TiO2 nanorod for high performance photoanode", "venue": "Applied Surface Science", "jif": 6.6, "q": "Q1", "cites": 6, "role": "co-corresponding", "pos": [10, 11], "doi": "https://doi.org/10.1016/j.apsusc.2023.159213", "authors": [{"n": "Sang Yeon Lee", "lab": false, "m": "†"}, {"n": "Young Jae Lee", "lab": false, "m": ""}, {"n": "Il-han Yoo", "lab": false, "m": ""}, {"n": "Hyeon Woo Kim", "lab": false, "m": ""}, {"n": "Hyejeong Song", "lab": true, "m": ""}, {"n": "Soo Won Heo", "lab": false, "m": ""}, {"n": "Shankara S Kalanur", "lab": false, "m": ""}, {"n": "Gourab Mohapatra", "lab": false, "m": ""}, {"n": "Hyunseok Ko", "lab": true, "m": "*"}, {"n": "Hyungtak Seo", "lab": false, "m": "*"}], "fig": 1}, {"id": 31, "date": "2023-12-01", "year": 2023, "title": "Radar absorption characteristics of ceramic oxide fiber/aluminosilicate-sendust composite structure at ultrahigh temperatures", "venue": "Journal of Alloys and Compounds", "jif": 6.7, "q": "Q1", "cites": 24, "role": "co-author", "pos": [3, 7], "doi": "https://doi.org/10.1016/j.jallcom.2023.171979", "authors": [{"n": "Shanigaram Mallesh", "lab": false, "m": "†"}, {"n": "Dongyoung Shim", "lab": false, "m": "†"}, {"n": "Hyunseok Ko", "lab": true, "m": ""}, {"n": "Younghoon Kang", "lab": false, "m": ""}, {"n": "Dongjun Hong", "lab": false, "m": ""}, {"n": "Byeongsu Kwak", "lab": false, "m": ""}, {"n": "Youngwoo Nam", "lab": false, "m": ""}], "fig": 1}, {"id": 30, "date": "2023-11-24", "year": 2023, "title": "Explainable AI for Material Property Prediction Based on Energy Cloud: A Shapley-Driven Approach", "venue": "Materials", "jif": 3.7, "q": "Q2", "cites": 28, "role": "co-author", "pos": [4, 5], "doi": "https://doi.org/10.3390/ma16237322", "authors": [{"n": "Faiza Qayyum", "lab": false, "m": "†"}, {"n": "Murad Ali Khan", "lab": false, "m": ""}, {"n": "Do-Hyeun Kim", "lab": false, "m": "*"}, {"n": "Hyunseok Ko", "lab": true, "m": ""}, {"n": "Ga-Ae Ryu", "lab": false, "m": "*"}], "fig": 1}, {"id": 29, "date": "2023-10-20", "year": 2023, "title": "Uncertainty and Irreproducibility of Triboelectricity Based on Interface Mechanochemistry", "venue": "Physical Review Letters", "jif": 9.4, "q": "Q1", "cites": 21, "role": "co-author", "pos": [9, 11], "doi": "https://doi.org/10.1103/physrevlett.131.166201", "authors": [{"n": "Giulio Fatti", "lab": true, "m": "†"}, {"n": "Hyunseung Kim", "lab": false, "m": ""}, {"n": "Changwan Sohn", "lab": false, "m": ""}, {"n": "Minah Park", "lab": false, "m": ""}, {"n": "Yeong-won Lim", "lab": false, "m": ""}, {"n": "Zhuohan Li", "lab": false, "m": ""}, {"n": "Kwi-Il Park", "lab": false, "m": ""}, {"n": "Izabela Szlufarska", "lab": false, "m": ""}, {"n": "Hyunseok Ko", "lab": true, "m": ""}, {"n": "Chang Kyu Jeong", "lab": false, "m": ""}, {"n": "Sung Beom Cho", "lab": false, "m": ""}], "fig": 1}, {"id": 28, "date": "2023-09-25", "year": 2023, "title": "A versatile strategy for hybridizing small experimental and large simulation data: A case for ceramic tape-casting process", "venue": "Materials & Design", "jif": 8.2, "q": "Q1", "cites": 6, "role": "first", "pos": [2, 8], "doi": "https://doi.org/10.1016/j.matdes.2023.112357", "authors": [{"n": "Jeong-Hun Kim", "lab": false, "m": "†"}, {"n": "Hyunseok Ko", "lab": true, "m": "†"}, {"n": "Dong-Hun Yeo", "lab": false, "m": ""}, {"n": "Zeehoon Park", "lab": false, "m": ""}, {"n": "Upendra Kumar", "lab": true, "m": ""}, {"n": "Kwan-Hee Yoo", "lab": false, "m": ""}, {"n": "Aziz Nasridinov", "lab": false, "m": ""}, {"n": "Sung Beom Cho", "lab": false, "m": ""}], "fig": 1, "sel": 1}, {"id": 27, "date": "2023-09-08", "year": 2023, "title": "Rational Design Strategy for Triboelectric Nanogenerators Based on Electron Back Flow and Ionic Defects: The Case of Polytetrafluoroethylene", "venue": "Advanced Electronic Materials", "jif": 5.9, "q": "Q1", "cites": 15, "role": "co-corresponding", "pos": [3, 11], "doi": "https://doi.org/10.1002/aelm.202300333", "authors": [{"n": "Giulio Fatti", "lab": true, "m": "†*"}, {"n": "Alessandra Ciniero", "lab": false, "m": ""}, {"n": "Hyunseok Ko", "lab": true, "m": "*"}, {"n": "Han Uk Lee", "lab": false, "m": ""}, {"n": "Yujin Na", "lab": false, "m": ""}, {"n": "Chang Kyu Jeong", "lab": false, "m": ""}, {"n": "Sang-geul Lee", "lab": false, "m": ""}, {"n": "Dongyub Kwak", "lab": false, "m": ""}, {"n": "Kwi-Il Park", "lab": false, "m": "*"}, {"n": "Sung Beom Cho", "lab": false, "m": "*"}, {"n": "Daniele Dini", "lab": false, "m": ""}], "fig": 1}, {"id": 26, "date": "2023-09-01", "year": 2023, "title": "Isovalent multi-component doping strategy for stabilizing cubic-Li7La3Zr2O12 with excellent Li mobility", "venue": "Chemical Engineering Journal", "jif": 12.5, "q": "Q1", "cites": 21, "role": "co-author", "pos": [4, 9], "doi": "https://doi.org/10.1016/j.cej.2023.144552", "authors": [{"n": "Han Uk Lee", "lab": false, "m": "†"}, {"n": "SeungminHan", "lab": false, "m": ""}, {"n": "Dong Geon Lee", "lab": true, "m": ""}, {"n": "Hyunseok Ko", "lab": true, "m": ""}, {"n": "Juhyun Lee", "lab": false, "m": ""}, {"n": "Won Bin Im", "lab": false, "m": ""}, {"n": "Taeseup Song", "lab": false, "m": ""}, {"n": "Junghyun Choi", "lab": false, "m": "*"}, {"n": "Sung Beom Cho", "lab": false, "m": "*"}], "fig": 1}, {"id": 25, "date": "2023-08-22", "year": 2023, "title": "Understanding the Electrokinetic Role of Ions on Electricity Generation in Droplet-Based Hydrovoltaic Systems", "venue": "Journal of Physical Chemistry C", "jif": 3.4, "q": "Q3", "cites": 15, "role": "co-author", "pos": [2, 4], "doi": "https://doi.org/10.1021/acs.jpcc.3c03183", "authors": [{"n": "Min Sung Kang", "lab": false, "m": "†"}, {"n": "Hyunseok Ko", "lab": true, "m": ""}, {"n": "Seokhee Lee", "lab": false, "m": "*"}, {"n": "Sung Beom Cho", "lab": false, "m": "*"}], "fig": 1}, {"id": 24, "date": "2023-08-05", "year": 2023, "title": "Dispersion control via crystal-phase modulation of yttrium-doped ZrO2 nanoparticle sol", "venue": "Colloids and Surfaces A: Physicochemical and Engineering Aspects", "jif": 5.4, "q": "Q2", "cites": 10, "role": "first", "pos": [2, 5], "doi": "https://doi.org/10.1016/j.colsurfa.2023.131476", "authors": [{"n": "Hee-Seon Lee", "lab": false, "m": "†"}, {"n": "Hyunseok Ko", "lab": true, "m": "†"}, {"n": "Kyuyoung Heo", "lab": false, "m": ""}, {"n": "Heesoo Lee", "lab": false, "m": ""}, {"n": "Hyung Mi Lim", "lab": false, "m": ""}], "fig": 1}, {"id": 23, "date": "2023-08-02", "year": 2023, "title": "High-Throughput Screening on Halide Perovskite Derivatives and Rational Design of Cs3LuCl6", "venue": "ACS Energy Letters", "jif": 17.5, "q": "Q1", "cites": 27, "role": "first", "pos": [3, 10], "doi": "https://doi.org/10.1021/acsenergylett.3c01207", "authors": [{"n": "Hyeon Woo Kim", "lab": false, "m": "†"}, {"n": "Joo Hyeong Han", "lab": false, "m": "†"}, {"n": "Hyunseok Ko", "lab": true, "m": "†"}, {"n": "Tuhin Samanta", "lab": false, "m": ""}, {"n": "Dong Geon Lee", "lab": true, "m": ""}, {"n": "Dong Won Jeon", "lab": false, "m": ""}, {"n": "Woongchan Kim", "lab": false, "m": ""}, {"n": "Yong-Chae Chung", "lab": false, "m": ""}, {"n": "Won Bin Im", "lab": false, "m": "*"}, {"n": "Sung Beom Cho", "lab": false, "m": "*"}], "fig": 1}, {"id": 22, "date": "2023-05-01", "year": 2023, "title": "Fabrication of thin and lightweight cobalt-coated quartz fiber/aluminosilicate composites for high-temperature microwave absorption", "venue": "Ceramics International", "jif": 6.0, "q": "Q1", "cites": 27, "role": "co-author", "pos": [3, 7], "doi": "https://doi.org/10.1016/j.ceramint.2022.12.235", "authors": [{"n": "Wonwoo Choi", "lab": false, "m": "†"}, {"n": "Shanigaram Mallesh", "lab": false, "m": "†"}, {"n": "Hyunseok Ko", "lab": true, "m": ""}, {"n": "Minjun Kim", "lab": false, "m": ""}, {"n": "Joonhyung Shin", "lab": false, "m": ""}, {"n": "Kyungwon Kim", "lab": true, "m": ""}, {"n": "Youngwoo Nam", "lab": false, "m": ""}], "fig": 1}, {"id": 21, "date": "2023-04-01", "year": 2023, "title": "Modulation of Molybdenum oxidation state via Catalytic-oxidation", "venue": "Applied Surface Science", "jif": 6.6, "q": "Q1", "cites": 14, "role": "co-author", "pos": [3, 8], "doi": "https://doi.org/10.1016/j.apsusc.2023.156330", "authors": [{"n": "Kangchun Lee", "lab": false, "m": "†"}, {"n": "Seho Sun", "lab": false, "m": ""}, {"n": "Hyunseok Ko", "lab": true, "m": ""}, {"n": "Sung Beom Cho", "lab": false, "m": ""}, {"n": "Ganggyu Lee", "lab": false, "m": ""}, {"n": "Dongsoo Lee", "lab": false, "m": ""}, {"n": "Taeseup Song", "lab": false, "m": ""}, {"n": "Ungyu Paik", "lab": false, "m": ""}], "fig": 1}, {"id": 20, "date": "2022-12-23", "year": 2022, "title": "Why does water in porous carbon generate electricity? Electrokinetic role of protons in a water droplet-induced hydrovoltaic system of hydrophilic porous carbon", "venue": "Journal of Materials Chemistry A", "jif": 9.2, "q": "Q1", "cites": 33, "role": "first", "pos": [1, 8], "doi": "https://doi.org/10.1039/d2ta05281d", "authors": [{"n": "Hyunseok Ko", "lab": true, "m": "†"}, {"n": "Wonkyeong Son", "lab": false, "m": ""}, {"n": "Min Sung Kang", "lab": false, "m": ""}, {"n": "Han Uk Lee", "lab": false, "m": ""}, {"n": "Chan-Yeup Chung", "lab": false, "m": ""}, {"n": "Seungwu Han", "lab": false, "m": ""}, {"n": "Changsoon Choi", "lab": false, "m": ""}, {"n": "Sung Beom Cho", "lab": false, "m": "*"}], "fig": 1, "sel": 1}, {"id": 19, "date": "2022-09-30", "year": 2022, "title": "Establishment of a BaTiO3-based Computational Science Platform to Predict Multi-component Properties", "venue": "JOURNAL OF SENSOR SCIENCE AND TECHNOLOGY", "jif": null, "q": null, "cites": null, "role": "co-corresponding", "pos": [4, 5], "doi": "https://doi.org/10.46670/jsst.2022.31.5.318", "authors": [{"n": "Dong Geon Lee", "lab": true, "m": "†"}, {"n": "Han Uk  Lee", "lab": false, "m": ""}, {"n": "Won Bin Im", "lab": false, "m": ""}, {"n": "Hyunseok Ko", "lab": true, "m": "*"}, {"n": "Sung Beom Cho", "lab": false, "m": "*"}], "fig": 1}, {"id": 18, "date": "2022-06-28", "year": 2022, "title": "Fast-curing geopolymer foams with an enhanced pore homogeneity derived by hydrogen peroxide and sodium dodecyl sulfate surfactant", "venue": "Minerals", "jif": null, "q": null, "cites": 21, "role": "corresponding", "pos": [4, 4], "doi": "https://doi.org/10.3390/min12070821", "authors": [{"n": "Kyungwon Kim", "lab": true, "m": "†"}, {"n": "Hyung Mi Lim", "lab": false, "m": ""}, {"n": "Seog-Young Yoon", "lab": false, "m": ""}, {"n": "Hyunseok Ko", "lab": true, "m": "*"}], "fig": 1}, {"id": 17, "date": "2022-05-24", "year": 2022, "title": "Dominant Effects of Epitaxial Strain on the Phase Control of Heterostructural (In x Ga1-x) 2O3 Alloys", "venue": "ACS Applied Electronic Materials", "jif": null, "q": null, "cites": 4, "role": "co-author", "pos": [4, 5], "doi": "https://doi.org/10.1021/acsaelm.2c00240", "authors": [{"n": "Han Uk Lee", "lab": false, "m": "†"}, {"n": "Hyeon Woo Kim", "lab": false, "m": ""}, {"n": "Giulio Fatti", "lab": true, "m": ""}, {"n": "Hyunseok Ko", "lab": true, "m": ""}, {"n": "Sung Beom Cho", "lab": false, "m": "*"}], "fig": 1}, {"id": 16, "date": "2020-09-01", "year": 2020, "title": "High-temperature viscosity analysis of aluminosilicate melts and the comparison to empirical models", "venue": "Journal of the Korean Ceramic Society", "jif": null, "q": null, "cites": 5, "role": "first", "pos": [1, 4], "doi": "https://doi.org/10.1007/s43207-020-00078-1", "authors": [{"n": "Hyunseok Ko", "lab": true, "m": "†"}, {"n": "Myounguk Kim", "lab": false, "m": ""}, {"n": "Sun-Min Park", "lab": false, "m": ""}, {"n": "Hyung Mi Lim", "lab": false, "m": ""}], "fig": 1}, {"id": 15, "date": "2021-01-15", "year": 2021, "title": "Heterostructural phase diagram of Ga2O3-based solid solution with Al2O3", "venue": "Journal of the European Ceramic Society", "jif": null, "q": null, "cites": 32, "role": "co-author", "pos": [2, 4], "doi": "https://doi.org/10.1016/j.jeurceramsoc.2020.08.067", "authors": [{"n": "Hyeon Woo Kim", "lab": false, "m": "†"}, {"n": "Hyunseok Ko", "lab": true, "m": ""}, {"n": "Yong-Chae Chung", "lab": false, "m": ""}, {"n": "Sung Beom Cho", "lab": false, "m": ""}]}, {"id": 14, "date": "2021-11-15", "year": 2021, "title": "Correlation between viscoelasticity of aluminosilicate melts and elastic properties of melt-spun fibers", "venue": "Journal of Non-Crystalline Solids", "jif": null, "q": null, "cites": 1, "role": "first", "pos": [1, 4], "doi": "https://doi.org/10.1016/j.jnoncrysol.2021.121110", "authors": [{"n": "Hyunseok Ko", "lab": true, "m": "†"}, {"n": "Myounguk Kim", "lab": false, "m": ""}, {"n": "Sun-Min Park", "lab": false, "m": ""}, {"n": "Hyung Mi Lim", "lab": false, "m": ""}], "fig": 1}, {"id": 13, "date": "2021-06-15", "year": 2021, "title": "Triboelectrification: backflow and stuck charges are key", "venue": "ACS Energy Letters", "jif": null, "q": null, "cites": null, "role": "first", "pos": [1, 5], "doi": "https://doi.org/10.1021/acsenergylett.1c01019.s001", "authors": [{"n": "Hyunseok Ko", "lab": true, "m": "†"}, {"n": "Yeong-Won Lim", "lab": false, "m": "†"}, {"n": "Seungwu Han", "lab": false, "m": ""}, {"n": "Chang Kyu Jeong", "lab": false, "m": "*"}, {"n": "Sung Beom Cho", "lab": false, "m": "*"}], "sel": 1, "fig": 1}, {"id": 12, "date": "2020-06-15", "year": 2020, "title": "Development of novel refractory ceramic continuous fibers of fly ash and comparison of mechanical properties with those of E-glass fibers using the Weibull distribution", "venue": "Ceramics International", "jif": null, "q": null, "cites": 11, "role": "first", "pos": [2, 7], "doi": "https://doi.org/10.1016/j.ceramint.2020.02.102", "authors": [{"n": "Myounguk Kim", "lab": false, "m": "†"}, {"n": "Hyunseok Ko", "lab": true, "m": "†"}, {"n": "Taesang Kwon", "lab": false, "m": ""}, {"n": "Hwang-Cheol Bae", "lab": false, "m": ""}, {"n": "Cheol-Hoon Jang", "lab": false, "m": ""}, {"n": "Bi-Ung Heo", "lab": false, "m": ""}, {"n": "Sun-Min Park", "lab": false, "m": ""}]}, {"id": 11, "date": "2020-10-01", "year": 2020, "title": "Effects of additives in colloidal silica based inorganic-hybrid binder for mineral wool insulation boards", "venue": "Journal of Asian Ceramic Societies", "jif": null, "q": null, "cites": 8, "role": "first", "pos": [1, 3], "doi": "https://doi.org/10.1080/21870764.2020.1842118", "authors": [{"n": "Hyunseok Ko", "lab": true, "m": "†"}, {"n": "Hee-Seon Lee", "lab": false, "m": ""}, {"n": "Hyung Mi Lim", "lab": false, "m": ""}], "fig": 1}, {"id": 10, "date": "2020-01-31", "year": 2020, "title": "Physiochemical effects of SiC and ZrO2 particle fillers on the properties of enamel coatings", "venue": "Coatings", "jif": null, "q": null, "cites": 4, "role": "first", "pos": [1, 5], "doi": "https://doi.org/10.3390/coatings10020121", "authors": [{"n": "Hyunseok Ko", "lab": true, "m": "†"}, {"n": "Sung-Jin Lee", "lab": false, "m": ""}, {"n": "Jae-Jong Oh", "lab": false, "m": ""}, {"n": "Seungho Lee", "lab": false, "m": "*"}, {"n": "Hyung Mi Lim", "lab": false, "m": "†*"}], "fig": 1}, {"id": 9, "date": "2019-11-01", "year": 2019, "title": "Effects of chemical composition of Ca (OH) 2 and precursors on the properties of fast-curing geopolymers", "venue": "Korean Journal of Materials Research", "jif": null, "q": null, "cites": 3, "role": "first", "pos": [1, 3], "doi": "https://doi.org/10.3740/mrsk.2019.29.11.690", "authors": [{"n": "Hyunseok Ko", "lab": true, "m": "†"}, {"n": "Jungyoung Noh", "lab": false, "m": ""}, {"n": "Hyung Mi Lim", "lab": false, "m": ""}], "fig": 1}, {"id": 8, "date": "2019-06-15", "year": 2019, "title": "Development of High Performance Exterior Ceramic Fiber Insulator with Recycled Materials", "venue": "Magazine of RCR", "jif": null, "q": null, "cites": null, "role": "co-author", "pos": [4, 5], "doi": "https://koreascience.kr/article/JAKO201929565689155.page", "authors": [{"n": "Hun Song", "lab": false, "m": "†"}, {"n": "Hyung Mi Lim", "lab": false, "m": ""}, {"n": "Sun-Min Park", "lab": false, "m": ""}, {"n": "Hyunseok Ko", "lab": true, "m": ""}, {"n": "Han-Bom Kim", "lab": false, "m": ""}], "fig": 1}, {"id": 7, "date": "2019-08-15", "year": 2019, "title": "Synergistic effects of amine-modified ammonium polyphosphate on curing behaviors and flame retardation properties of epoxy composites", "venue": "Composites Part B: Engineering", "jif": null, "q": null, "cites": 105, "role": "co-author", "pos": [2, 3], "doi": "https://doi.org/10.1016/j.compositesb.2019.04.016", "authors": [{"n": "Myounguk  Kim", "lab": false, "m": "†"}, {"n": "Hyunseok Ko", "lab": true, "m": ""}, {"n": "Sun-Min Park", "lab": false, "m": ""}]}, {"id": 6, "date": "2017-09-08", "year": 2017, "title": "Cs diffusion in SiC high-energy grain boundaries", "venue": "Journal of Applied Physics", "jif": null, "q": null, "cites": 5, "role": "first", "pos": [1, 3], "doi": "https://doi.org/10.1063/1.4989389", "authors": [{"n": "Hyunseok Ko", "lab": true, "m": "†"}, {"n": "Izabela zlufarska", "lab": false, "m": ""}, {"n": "Dane Morgan", "lab": false, "m": ""}], "fig": 1}, {"id": 4, "date": "2017-08-15", "year": 2017, "title": "Optimization of self-interstitial clusters in 3C-SiC with genetic algorithm", "venue": "Journal of Nuclear Materials", "jif": null, "q": null, "cites": 17, "role": "first", "pos": [1, 4], "doi": "https://doi.org/10.1016/j.jnucmat.2017.05.015", "authors": [{"n": "Hyunseok Ko", "lab": true, "m": "†"}, {"n": "Amy Kaczmarowski", "lab": false, "m": ""}, {"n": "Izabela Szlufarska", "lab": false, "m": ""}, {"n": "Dane Morgan", "lab": false, "m": ""}], "fig": 1}, {"id": 3, "date": "2016-08-15", "year": 2016, "title": "Ag diffusion in SiC high-energy grain boundaries: Kinetic Monte Carlo study with first-principle calculations", "venue": "Computational Materials Science", "jif": null, "q": null, "cites": 32, "role": "first", "pos": [1, 4], "doi": "https://doi.org/10.1016/j.commatsci.2016.04.027", "authors": [{"n": "Hyunseok Ko", "lab": true, "m": "†"}, {"n": "Jie Deng", "lab": false, "m": ""}, {"n": "Izabela Szlufarska", "lab": false, "m": ""}, {"n": "Dane Morgan", "lab": false, "m": ""}], "fig": 1}, {"id": 2, "date": "2016-04-15", "year": 2016, "title": "Effect of carbon ion irradiation on Ag diffusion in SiC", "venue": "Journal of Nuclear Materials", "jif": null, "q": null, "cites": 19, "role": "first", "pos": [2, 9], "doi": "https://doi.org/10.1016/j.jnucmat.2015.11.017", "authors": [{"n": "Bin Leng", "lab": false, "m": "†"}, {"n": "Hyunseok Ko", "lab": true, "m": "†"}, {"n": "Tyler J. Gerczak", "lab": false, "m": ""}, {"n": "Jie Deng", "lab": false, "m": ""}, {"n": "Andrew J. Giordani", "lab": false, "m": ""}, {"n": "Jerry L. Hunter Jr", "lab": false, "m": ""}, {"n": "Dane Morgan", "lab": false, "m": ""}, {"n": "Izabela Szlufarska", "lab": false, "m": ""}, {"n": "Kumar Sridharan", "lab": false, "m": ""}], "fig": 1}]</script>
 <script src="assets/js/site.js?v=20260905h"></script>
